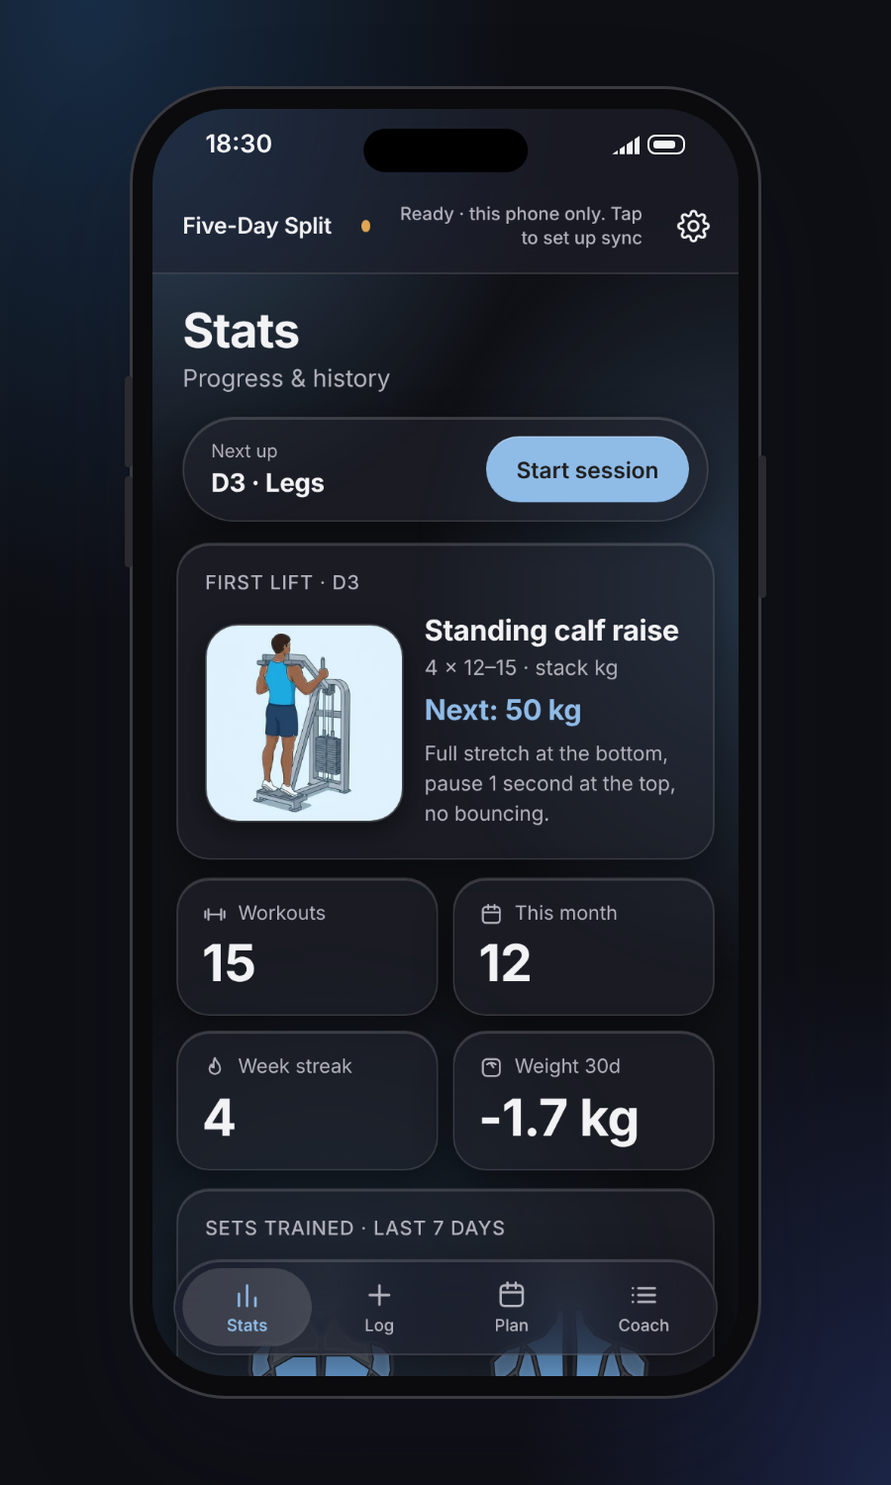
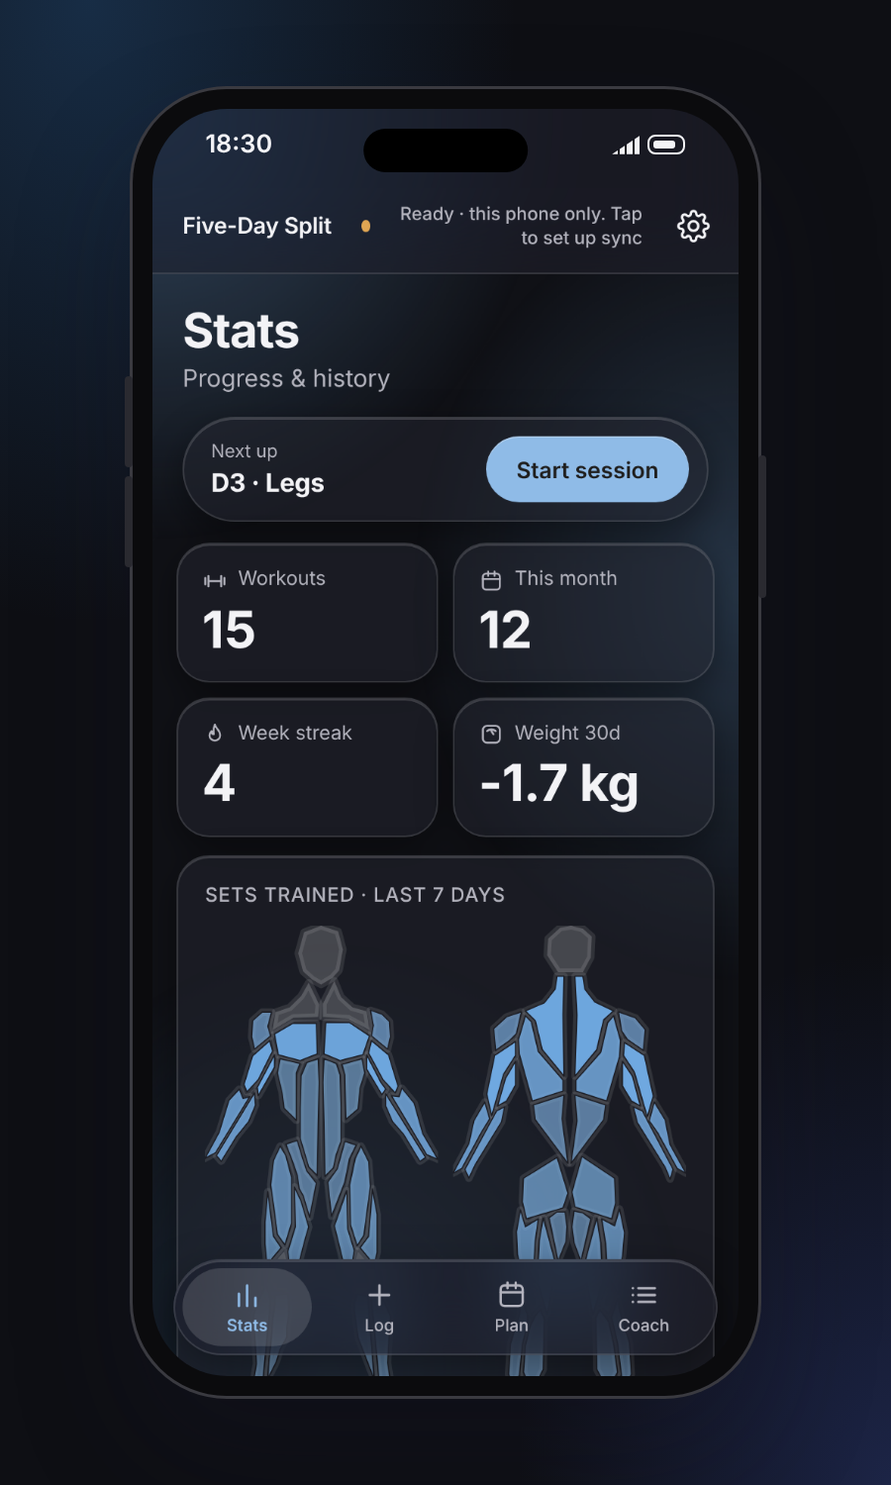
Remove First lift card, settings close button, keep fields clear of header, fix date field overlap (#4)
Claude-Session: https://claude.ai/code/session_01G4zxRqEfTkFnjpAiDAwh36

diff --git a/split.js b/split.js
@@ -80,7 +80,7 @@ let sampleCache=null;
 const LS_CO='split-coach-v1',LS_CS='split-coach-shas-v1';
 const esc=s=>String(s==null?'':s).replace(/[&<>"']/g,c=>({'&':'&amp;','<':'&lt;','>':'&gt;','"':'&quot;',"'":'&#39;'}[c]));
 const LS_S='split-sessions-v2',LS_SA='split-sessions-at-v1',LS_Q='split-queue-v1',LS_C='split-sync-cfg-v1',LS_H='split-shas-v1',LS_L='split-lastsync-v1';
-const BUILD='2026-11-18.124631';
+const BUILD='2026-11-18.130212';
 const DATE_RE=/^\d{4}-\d{2}-\d{2}$/,FILE_RE=/^\d{4}-\d{2}-\d{2}\.json$/,REPO_RE=/^[\w.-]+\/[\w.-]+$/;
 const dayOf=id=>DAYS.find(x=>x.id===id)||null;
 const lsGet=(k,d)=>{try{const v=localStorage.getItem(k);return v?JSON.parse(v):d;}catch(e){return d;}};
@@ -559,12 +559,6 @@ function progressHtml(){
     const d=r.p.map((q,i)=>(i?'L':'M')+(i/(r.p.length-1)*60).toFixed(1)+' '+(16-(q.v-lo)/sp*14).toFixed(1)).join('');
     return`<div class="prow"><b>${r.n}</b><svg viewBox="0 0 60 18" aria-hidden="true"><path d="${d}"/></svg><em class="${r.pc>=0?'up':'dn'}">${r.pc>=0?'+':''}${r.pc.toFixed(0)}%</em></div>`;}).join('')}</div><p class="sub">Estimated 1-rep max, first vs latest session.</p>`;
 }
-/* the first lift of the next session, with its start/end animation */
-function nextLiftHtml(){
-  const day=suggestedDay(),ex=EX.find(e=>e.d===day);if(!ex)return'';
-  const sg=suggest(ex,todayStr(),null);
-  return`<section class="card nextlift"><h3 class="sec">First lift · ${esc(day)}</h3><div class="nlb">${figHtml(ex)}<div class="nli"><b>${esc(ex.n)}</b><p class="sub">${ex.s} × ${ex.r[0]}–${ex.r[1]} · ${esc(ex.u)}</p><p class="tgt"><b>Next: ${fmtKg(sg.kg)} kg</b></p><p class="cue">${esc(ex.cue)}</p></div></div></section>`;
-}
 function renderStats(){
   const root=$('#tab-stats'),sess=activeSessions(),now=Date.now(),win=7;
   const H=heat(sess,now,win),list=realList(),mo=todayStr().slice(0,7);
@@ -573,7 +567,7 @@ function renderStats(){
     const a=H[m].sets<=0?0:clamp(.18+.82*H[m].sets/Math.max(BAND[m][1],6),.18,1);
     return a===0?'var(--idle)':`color-mix(in srgb,var(--clay) ${Math.round(a*100)}%,var(--idle))`;
   };
-  let h=`<section class="hd"><h2>Stats</h2><p class="sub">Progress &amp; history</p><div class="next"><div><span>Next up</span><b>${(()=>{const d=DAYS.find(x=>x.id===suggestedDay());return d.id+' · '+d.name;})()}</b></div><button class="cta" data-tab="log">Start session</button></div></section>${nextLiftHtml()}
+  let h=`<section class="hd"><h2>Stats</h2><p class="sub">Progress &amp; history</p><div class="next"><div><span>Next up</span><b>${(()=>{const d=DAYS.find(x=>x.id===suggestedDay());return d.id+' · '+d.name;})()}</b></div><button class="cta" data-tab="log">Start session</button></div></section>
   <div class="tiles"><div class="tile"><span>${icon('dumb')}Workouts</span><b>${list.length}</b></div><div class="tile"><span>${icon('cal')}This month</span><b>${list.filter(s=>s.date.slice(0,7)===mo).length}</b></div><div class="tile"><span>${icon('flame')}Week streak</span><b>${weekStreak()}</b></div><div class="tile"><span>${icon('scale')}Weight 30d</span><b>${wd===null?'–':(wd>0?'+':'')+wd.toFixed(1)+' kg'}</b></div></div>
   <section class="card"><h3 class="sec">Sets trained · last 7 days</h3>
   ${state.real?'':'<p class="banner">Sample week shown on the body map. Save your first session in the Log tab and this switches to your own data.</p>'}
@@ -699,6 +693,13 @@ window.addEventListener('pagehide',()=>{if(state.dirty)autoSave();});
 window.addEventListener('focus',rollover);
 window.addEventListener('online',()=>schedSync(500));
 document.addEventListener('visibilitychange',()=>{if(document.hidden){if(Object.keys(queueGet()).length)schedSync(0);}else schedSync(500);});
+/* Keep a focused field clear of the pinned header and the floating tab bar. iOS only scrolls a field into
+   the viewport when the keyboard opens, which can leave it underneath the header. */
+function keepClear(t){
+  const h=$('header'),n=$('.nav'),r=t.getBoundingClientRect(),top=h?h.getBoundingClientRect().bottom+8:0,bot=n?n.getBoundingClientRect().top-8:innerHeight;
+  if(r.top<top)window.scrollBy(0,r.top-top);else if(r.bottom>bot&&r.height<bot-top)window.scrollBy(0,r.bottom-bot);
+}
+document.addEventListener('focusin',e=>{const t=e.target;if(!t.matches||!t.matches('input,textarea,select')||t.closest('dialog'))return;[60,350].forEach(ms=>setTimeout(()=>{if(document.activeElement===t)keepClear(t);},ms));});
 /* ---------- themes ---------- */
 const LS_TH='split-theme-v1';
 const themeGet=()=>Object.assign({mode:'auto',accent:'clay',contrast:'normal'},lsGet(LS_TH,{}));
@@ -722,6 +723,7 @@ function openSettings(){const c=cfg();$('#set-repo').value=c?c.repo:'';$('#set-t
 $('#sync').addEventListener('click',openSettings);
 $('#gear').addEventListener('click',openSettings);
 $('#set-close').addEventListener('click',()=>dlg.close());
+$('#set-x').addEventListener('click',()=>dlg.close());
 $('#set-target').addEventListener('change',e=>{const v=Number(String(e.target.value).replace(',','.'));if(v>0)lsSet(LS_T,v);else localStorage.removeItem(LS_T);try{renderStats();}catch(x){}});
 $('#set-save').addEventListener('click',async()=>{
   const repo=$('#set-repo').value.trim().replace(/^https?:\/\/github\.com\//,'').replace(/\.git$/,''),old=cfg(),token=$('#set-token').value.trim()||(old&&old.token)||'',m=$('#set-msg');

diff --git a/tests/app.test.js b/tests/app.test.js
@@ -276,36 +276,6 @@ test('glass: falls back when backdrop-filter is unsupported',async()=>{
   assert.ok(a&&Number(a[1])>=.92,'--glass-bar alpha >= .92');
 });
 
-test('stats shows an animated preview of the next lift',async()=>{
-  const {ctx,page,errors}=await openApp({hash:'stats'});
-  assert.equal(await page.$$eval('.nextlift .fx img',n=>n.length),2);
-  assert.match(await page.textContent('.nextlift'),/Lat pulldown/);
-  assert.match(await page.textContent('.nextlift'),/Next: 55 kg/);
-  assert.equal(await page.$eval('.nextlift .fx img+img',i=>getComputedStyle(i).animationName),'fx');
-  assert.deepEqual(errors,[]);
-  await ctx.close();
-});
-
-test('the preview obeys reduced motion and tap',async()=>{
-  const {ctx,page}=await openApp({hash:'stats',ctxOpts:{reducedMotion:'reduce'}});
-  assert.equal(await page.$eval('.nextlift .fx img+img',i=>getComputedStyle(i).animationName),'none');
-  await page.click('.nextlift .fx');
-  assert.ok(await page.$eval('.nextlift .fx',f=>f.classList.contains('end')));
-  await ctx.close();
-});
-
-test('the preview survives a lift without images',async()=>{
-  const before=ctx=>ctx.route('**/split.js*',async route=>{
-    const r=await route.fetch();const body=(await r.text()).replace('"d1-lat":"lat-pulldown",','');
-    await route.fulfill({response:r,body});
-  });
-  const {ctx,page,errors}=await openApp({hash:'stats',before});
-  assert.match(await page.textContent('.nextlift'),/Lat pulldown/);
-  assert.equal(await page.$$eval('.nextlift img',n=>n.length),0);
-  assert.deepEqual(errors,[]);
-  await ctx.close();
-});
-
 test('readme renders exist and are framed phones',{timeout:180000},async()=>{
   const {spawnSync}=require('node:child_process'),os=require('node:os');
   const out=fs.mkdtempSync(path.join(os.tmpdir(),'shots-'));
@@ -331,12 +301,44 @@ test('glass: the no-blur fallback makes bars near-opaque in every mode',async()=
   }
 });
 
-test('the preview keeps full width when the lift has no image',async()=>{
-  const before=ctx=>ctx.route('**/split.js*',async route=>{
-    const r=await route.fetch();await route.fulfill({response:r,body:(await r.text()).replace('"d1-lat":"lat-pulldown",','')});
-  });
-  const {ctx,page}=await openApp({hash:'stats',before});
-  const w=await page.$eval('.nextlift',c=>({card:c.getBoundingClientRect().width,info:c.querySelector('.nli').getBoundingClientRect().width}));
-  assert.ok(w.info>w.card*.8,`info column ${w.info}px of ${w.card}px card`);
+test('stats no longer shows a first-lift card',async()=>{
+  const {ctx,page}=await openApp({hash:'stats'});
+  assert.equal(await page.$$eval('.nextlift',n=>n.length),0);
+  assert.doesNotMatch(await page.textContent('#tab-stats'),/First lift/i);
+  await ctx.close();
+});
+
+test('settings has a close button in the top right corner',async()=>{
+  const {ctx,page}=await openApp({hash:'stats'});
+  await page.click('#gear');
+  const r=await page.evaluate(()=>{const d=document.querySelector('#settings').getBoundingClientRect(),x=document.querySelector('#set-x');const b=x.getBoundingClientRect();return {label:x.getAttribute('aria-label'),right:d.right-b.right,top:b.top-d.top,w:b.width,h:b.height};});
+  assert.equal(r.label,'Close settings');
+  assert.ok(r.right<40&&r.top<40,'top right: '+JSON.stringify(r));
+  assert.ok(r.w>=44&&r.h>=44,'44px touch target');
+  await page.click('#set-x');
+  assert.equal(await page.$eval('#settings',d=>d.open),false);
+  await ctx.close();
+});
+
+test('a focused input is never left under the pinned header',async()=>{
+  const {ctx,page}=await openApp({hash:'log',ctxOpts:{viewport:{width:390,height:700}}});
+  const sel='input[data-ex][data-i="0"][data-f="reps"]';
+  // put the input partly underneath the header, as when the page has scrolled
+  await page.evaluate(sel=>{const h=document.querySelector('header').getBoundingClientRect().bottom,i=document.querySelector(sel).getBoundingClientRect().top;window.scrollBy(0,i-h+20);},sel);
+  await page.focus(sel);await page.waitForTimeout(400);
+  const r=await page.evaluate(sel=>({header:document.querySelector('header').getBoundingClientRect().bottom,input:document.querySelector(sel).getBoundingClientRect().top}),sel);
+  assert.ok(r.input>=r.header,`input top ${r.input} vs header bottom ${r.header}`);
+  await ctx.close();
+});
+
+test('date and body weight fields never overlap on a narrow phone',async()=>{
+  const {ctx,page}=await openApp({hash:'log',ctxOpts:{viewport:{width:320,height:640}}});
+  const r=await page.evaluate(()=>{const d=document.querySelector('#f-date'),b=document.querySelector('#f-bw'),cs=getComputedStyle(d);
+    const R=e=>e.getBoundingClientRect(),dr=R(d),br=R(b),dl=R(d.closest('.fld')),bl=R(b.closest('.fld'));
+    const overlap=!(dr.right<=br.left||br.right<=dr.left||dr.bottom<=br.top||br.bottom<=dr.top);
+    return {overlap,dateInside:dr.right<=dl.right+0.5,bwInside:br.right<=bl.right+0.5,appearance:cs.appearance||cs.webkitAppearance,minW:cs.minWidth,fldMinW:getComputedStyle(d.closest('.fld')).minWidth};});
+  assert.equal(r.overlap,false);assert.ok(r.dateInside&&r.bwInside,JSON.stringify(r));
+  // guards for iOS Safari, whose native date control will not shrink to its column otherwise
+  assert.equal(r.appearance,'none');assert.equal(r.minW,'0px');assert.equal(r.fldMinW,'0px');
   await ctx.close();
 });

diff --git a/index.html b/index.html
@@ -10,7 +10,7 @@
 <meta name="apple-mobile-web-app-capable" content="yes"><meta name="mobile-web-app-capable" content="yes">
 <meta name="apple-mobile-web-app-title" content="Split"><meta name="apple-mobile-web-app-status-bar-style" content="default">
 <meta name="theme-color" id="tc" content="#faf9f5">
-<script src="theme.js?v=2026-11-18.124631"></script>
+<script src="theme.js?v=2026-11-18.130212"></script>
 <style>
 /* Layout: one narrow column, sticky header, bottom tab bar. Palette: graphite with indigo accent; heat uses its own red-to-green scale. */
 /* Look: warm paper, clay accent, serif display + system sans, quiet hairline cards (follows the iPhone light/dark setting) */
@@ -381,10 +381,15 @@ dialog#settings::backdrop{background:rgba(0,0,0,.30)}
 /* exercise animation frames: glass edge around the start/end cross-fade */
 .fx{border-radius:var(--radius-card);border:1px solid var(--glass-edge);box-shadow:inset 0 1px 0 var(--glass-hi),0 6px 18px var(--glass-shade);background:var(--inset)}
 .alt img{border-radius:14px;border:1px solid var(--glass-edge)}
-.nlb{display:grid;grid-template-columns:132px 1fr;gap:14px;align-items:center}
-.nlb .fx{max-width:132px;margin:0}
-.nlb:not(:has(.fx)){grid-template-columns:1fr}
-.nli b{font:700 19px var(--sans);letter-spacing:-.01em}.nli .sub{margin:2px 0 6px;font-size:14px}.nli .tgt{margin:0 0 6px;font-size:15px}.nli .cue{margin:0;font-size:13.5px;color:var(--muted)}
+/* settings: close button pinned to the top right while the sheet scrolls */
+#set-x{position:sticky;top:0;float:right;margin:-8px -8px 0 8px;width:44px;height:44px;border-radius:50%;display:inline-flex;align-items:center;justify-content:center;border:1px solid var(--glass-edge);background:var(--inset);color:var(--ink);cursor:pointer;z-index:1}
+/* fields: room under the pinned header and above the tab bar when scrolled to */
+html{scroll-padding-top:calc(76px + env(safe-area-inset-top));scroll-padding-bottom:calc(100px + env(safe-area-inset-bottom))}
+/* date and body weight side by side: iOS draws date inputs at a fixed minimum width unless these are set */
+.fld{min-width:0}
+.fld input{min-width:0;max-width:100%}
+input[type=date]{-webkit-appearance:none;appearance:none;display:block;min-width:0}
+input[type=date]::-webkit-date-and-time-value{text-align:left}
 /* no backdrop-filter support: bars go near-opaque so text under them stays readable */
 @supports not ((backdrop-filter:blur(1px)) or (-webkit-backdrop-filter:blur(1px))){
   html,html[data-scheme="light"]{--glass-bar:rgba(246,247,250,.96)}
@@ -399,7 +404,7 @@ html[data-contrast="high"] body::before{display:none}
 </head>
 <body>
 <header><div class="in"><h1>Five-Day Split</h1><button id="sync" type="button" data-s="warn">Starting…</button><button id="gear" type="button" aria-label="Settings"><svg viewBox="0 0 24 24" width="22" height="22" fill="none" stroke="currentColor" stroke-width="1.8" stroke-linecap="round" stroke-linejoin="round" aria-hidden="true"><path d="M12 15.5a3.5 3.5 0 1 0 0-7 3.5 3.5 0 0 0 0 7Z"/><path d="M19.4 15a1.7 1.7 0 0 0 .34 1.87l.06.06a2 2 0 1 1-2.83 2.83l-.06-.06a1.7 1.7 0 0 0-1.87-.34 1.7 1.7 0 0 0-1.04 1.56V21a2 2 0 1 1-4 0v-.09A1.7 1.7 0 0 0 9 19.4a1.7 1.7 0 0 0-1.87.34l-.06.06a2 2 0 1 1-2.83-2.83l.06-.06A1.7 1.7 0 0 0 4.6 15a1.7 1.7 0 0 0-1.56-1.04H3a2 2 0 1 1 0-4h.09A1.7 1.7 0 0 0 4.6 9a1.7 1.7 0 0 0-.34-1.87l-.06-.06a2 2 0 1 1 2.83-2.83l.06.06A1.7 1.7 0 0 0 9 4.6a1.7 1.7 0 0 0 1.04-1.56V3a2 2 0 1 1 4 0v.09A1.7 1.7 0 0 0 15 4.6a1.7 1.7 0 0 0 1.87-.34l.06-.06a2 2 0 1 1 2.83 2.83l-.06.06A1.7 1.7 0 0 0 19.4 9a1.7 1.7 0 0 0 1.56 1.04H21a2 2 0 1 1 0 4h-.09A1.7 1.7 0 0 0 19.4 15Z"/></svg></button></div></header>
-<dialog id="settings"><h2>Settings</h2><p id="set-status"></p>
+<dialog id="settings"><button id="set-x" type="button" aria-label="Close settings"><svg viewBox="0 0 24 24" width="20" height="20" aria-hidden="true" fill="none" stroke="currentColor" stroke-width="2" stroke-linecap="round"><path d="M6 6l12 12M18 6L6 18"/></svg></button><h2>Settings</h2><p id="set-status"></p>
 <h3>Cloud sync</h3><p class="sub" style="margin:0;font-size:13px;color:var(--muted)">Your workouts always save on this phone first. Sync copies them to your private GitHub repo so Claude can read them.</p>
 <label for="set-repo">Private repo (owner/name)</label><input id="set-repo" type="text" placeholder="your-name/your-private-repo" autocapitalize="off" autocorrect="off" spellcheck="false">
 <label for="set-token">Access token</label><input id="set-token" type="password" autocomplete="off" autocapitalize="off" spellcheck="false">
@@ -430,6 +435,6 @@ html[data-contrast="high"] body::before{display:none}
 <button data-tab="coach"><svg viewBox="0 0 24 24" aria-hidden="true"><path d="M8 7h12M8 12h12M8 17h12M4 7h.01M4 12h.01M4 17h.01"/></svg>Coach</button>
 </div></nav>
 <div id="toast" role="status" aria-live="polite"></div>
-<script src="split.js?v=2026-11-18.124631"></script>
+<script src="split.js?v=2026-11-18.130212"></script>
 </body>
 </html>

diff --git a/src/app.js b/src/app.js
@@ -500,12 +500,6 @@ function progressHtml(){
     const d=r.p.map((q,i)=>(i?'L':'M')+(i/(r.p.length-1)*60).toFixed(1)+' '+(16-(q.v-lo)/sp*14).toFixed(1)).join('');
     return`<div class="prow"><b>${r.n}</b><svg viewBox="0 0 60 18" aria-hidden="true"><path d="${d}"/></svg><em class="${r.pc>=0?'up':'dn'}">${r.pc>=0?'+':''}${r.pc.toFixed(0)}%</em></div>`;}).join('')}</div><p class="sub">Estimated 1-rep max, first vs latest session.</p>`;
 }
-/* the first lift of the next session, with its start/end animation */
-function nextLiftHtml(){
-  const day=suggestedDay(),ex=EX.find(e=>e.d===day);if(!ex)return'';
-  const sg=suggest(ex,todayStr(),null);
-  return`<section class="card nextlift"><h3 class="sec">First lift · ${esc(day)}</h3><div class="nlb">${figHtml(ex)}<div class="nli"><b>${esc(ex.n)}</b><p class="sub">${ex.s} × ${ex.r[0]}–${ex.r[1]} · ${esc(ex.u)}</p><p class="tgt"><b>Next: ${fmtKg(sg.kg)} kg</b></p><p class="cue">${esc(ex.cue)}</p></div></div></section>`;
-}
 function renderStats(){
   const root=$('#tab-stats'),sess=activeSessions(),now=Date.now(),win=7;
   const H=heat(sess,now,win),list=realList(),mo=todayStr().slice(0,7);
@@ -514,7 +508,7 @@ function renderStats(){
     const a=H[m].sets<=0?0:clamp(.18+.82*H[m].sets/Math.max(BAND[m][1],6),.18,1);
     return a===0?'var(--idle)':`color-mix(in srgb,var(--clay) ${Math.round(a*100)}%,var(--idle))`;
   };
-  let h=`<section class="hd"><h2>Stats</h2><p class="sub">Progress &amp; history</p><div class="next"><div><span>Next up</span><b>${(()=>{const d=DAYS.find(x=>x.id===suggestedDay());return d.id+' · '+d.name;})()}</b></div><button class="cta" data-tab="log">Start session</button></div></section>${nextLiftHtml()}
+  let h=`<section class="hd"><h2>Stats</h2><p class="sub">Progress &amp; history</p><div class="next"><div><span>Next up</span><b>${(()=>{const d=DAYS.find(x=>x.id===suggestedDay());return d.id+' · '+d.name;})()}</b></div><button class="cta" data-tab="log">Start session</button></div></section>
   <div class="tiles"><div class="tile"><span>${icon('dumb')}Workouts</span><b>${list.length}</b></div><div class="tile"><span>${icon('cal')}This month</span><b>${list.filter(s=>s.date.slice(0,7)===mo).length}</b></div><div class="tile"><span>${icon('flame')}Week streak</span><b>${weekStreak()}</b></div><div class="tile"><span>${icon('scale')}Weight 30d</span><b>${wd===null?'–':(wd>0?'+':'')+wd.toFixed(1)+' kg'}</b></div></div>
   <section class="card"><h3 class="sec">Sets trained · last 7 days</h3>
   ${state.real?'':'<p class="banner">Sample week shown on the body map. Save your first session in the Log tab and this switches to your own data.</p>'}
@@ -640,6 +634,13 @@ window.addEventListener('pagehide',()=>{if(state.dirty)autoSave();});
 window.addEventListener('focus',rollover);
 window.addEventListener('online',()=>schedSync(500));
 document.addEventListener('visibilitychange',()=>{if(document.hidden){if(Object.keys(queueGet()).length)schedSync(0);}else schedSync(500);});
+/* Keep a focused field clear of the pinned header and the floating tab bar. iOS only scrolls a field into
+   the viewport when the keyboard opens, which can leave it underneath the header. */
+function keepClear(t){
+  const h=$('header'),n=$('.nav'),r=t.getBoundingClientRect(),top=h?h.getBoundingClientRect().bottom+8:0,bot=n?n.getBoundingClientRect().top-8:innerHeight;
+  if(r.top<top)window.scrollBy(0,r.top-top);else if(r.bottom>bot&&r.height<bot-top)window.scrollBy(0,r.bottom-bot);
+}
+document.addEventListener('focusin',e=>{const t=e.target;if(!t.matches||!t.matches('input,textarea,select')||t.closest('dialog'))return;[60,350].forEach(ms=>setTimeout(()=>{if(document.activeElement===t)keepClear(t);},ms));});
 /* ---------- themes ---------- */
 const LS_TH='split-theme-v1';
 const themeGet=()=>Object.assign({mode:'auto',accent:'clay',contrast:'normal'},lsGet(LS_TH,{}));
@@ -663,6 +664,7 @@ function openSettings(){const c=cfg();$('#set-repo').value=c?c.repo:'';$('#set-t
 $('#sync').addEventListener('click',openSettings);
 $('#gear').addEventListener('click',openSettings);
 $('#set-close').addEventListener('click',()=>dlg.close());
+$('#set-x').addEventListener('click',()=>dlg.close());
 $('#set-target').addEventListener('change',e=>{const v=Number(String(e.target.value).replace(',','.'));if(v>0)lsSet(LS_T,v);else localStorage.removeItem(LS_T);try{renderStats();}catch(x){}});
 $('#set-save').addEventListener('click',async()=>{
   const repo=$('#set-repo').value.trim().replace(/^https?:\/\/github\.com\//,'').replace(/\.git$/,''),old=cfg(),token=$('#set-token').value.trim()||(old&&old.token)||'',m=$('#set-msg');

diff --git a/src/template.html b/src/template.html
@@ -381,10 +381,15 @@ dialog#settings::backdrop{background:rgba(0,0,0,.30)}
 /* exercise animation frames: glass edge around the start/end cross-fade */
 .fx{border-radius:var(--radius-card);border:1px solid var(--glass-edge);box-shadow:inset 0 1px 0 var(--glass-hi),0 6px 18px var(--glass-shade);background:var(--inset)}
 .alt img{border-radius:14px;border:1px solid var(--glass-edge)}
-.nlb{display:grid;grid-template-columns:132px 1fr;gap:14px;align-items:center}
-.nlb .fx{max-width:132px;margin:0}
-.nlb:not(:has(.fx)){grid-template-columns:1fr}
-.nli b{font:700 19px var(--sans);letter-spacing:-.01em}.nli .sub{margin:2px 0 6px;font-size:14px}.nli .tgt{margin:0 0 6px;font-size:15px}.nli .cue{margin:0;font-size:13.5px;color:var(--muted)}
+/* settings: close button pinned to the top right while the sheet scrolls */
+#set-x{position:sticky;top:0;float:right;margin:-8px -8px 0 8px;width:44px;height:44px;border-radius:50%;display:inline-flex;align-items:center;justify-content:center;border:1px solid var(--glass-edge);background:var(--inset);color:var(--ink);cursor:pointer;z-index:1}
+/* fields: room under the pinned header and above the tab bar when scrolled to */
+html{scroll-padding-top:calc(76px + env(safe-area-inset-top));scroll-padding-bottom:calc(100px + env(safe-area-inset-bottom))}
+/* date and body weight side by side: iOS draws date inputs at a fixed minimum width unless these are set */
+.fld{min-width:0}
+.fld input{min-width:0;max-width:100%}
+input[type=date]{-webkit-appearance:none;appearance:none;display:block;min-width:0}
+input[type=date]::-webkit-date-and-time-value{text-align:left}
 /* no backdrop-filter support: bars go near-opaque so text under them stays readable */
 @supports not ((backdrop-filter:blur(1px)) or (-webkit-backdrop-filter:blur(1px))){
   html,html[data-scheme="light"]{--glass-bar:rgba(246,247,250,.96)}
@@ -399,7 +404,7 @@ html[data-contrast="high"] body::before{display:none}
 </head>
 <body>
 <header><div class="in"><h1>Five-Day Split</h1><button id="sync" type="button" data-s="warn">Starting…</button><button id="gear" type="button" aria-label="Settings"><svg viewBox="0 0 24 24" width="22" height="22" fill="none" stroke="currentColor" stroke-width="1.8" stroke-linecap="round" stroke-linejoin="round" aria-hidden="true"><path d="M12 15.5a3.5 3.5 0 1 0 0-7 3.5 3.5 0 0 0 0 7Z"/><path d="M19.4 15a1.7 1.7 0 0 0 .34 1.87l.06.06a2 2 0 1 1-2.83 2.83l-.06-.06a1.7 1.7 0 0 0-1.87-.34 1.7 1.7 0 0 0-1.04 1.56V21a2 2 0 1 1-4 0v-.09A1.7 1.7 0 0 0 9 19.4a1.7 1.7 0 0 0-1.87.34l-.06.06a2 2 0 1 1-2.83-2.83l.06-.06A1.7 1.7 0 0 0 4.6 15a1.7 1.7 0 0 0-1.56-1.04H3a2 2 0 1 1 0-4h.09A1.7 1.7 0 0 0 4.6 9a1.7 1.7 0 0 0-.34-1.87l-.06-.06a2 2 0 1 1 2.83-2.83l.06.06A1.7 1.7 0 0 0 9 4.6a1.7 1.7 0 0 0 1.04-1.56V3a2 2 0 1 1 4 0v.09A1.7 1.7 0 0 0 15 4.6a1.7 1.7 0 0 0 1.87-.34l.06-.06a2 2 0 1 1 2.83 2.83l-.06.06A1.7 1.7 0 0 0 19.4 9a1.7 1.7 0 0 0 1.56 1.04H21a2 2 0 1 1 0 4h-.09A1.7 1.7 0 0 0 19.4 15Z"/></svg></button></div></header>
-<dialog id="settings"><h2>Settings</h2><p id="set-status"></p>
+<dialog id="settings"><button id="set-x" type="button" aria-label="Close settings"><svg viewBox="0 0 24 24" width="20" height="20" aria-hidden="true" fill="none" stroke="currentColor" stroke-width="2" stroke-linecap="round"><path d="M6 6l12 12M18 6L6 18"/></svg></button><h2>Settings</h2><p id="set-status"></p>
 <h3>Cloud sync</h3><p class="sub" style="margin:0;font-size:13px;color:var(--muted)">Your workouts always save on this phone first. Sync copies them to your private GitHub repo so Claude can read them.</p>
 <label for="set-repo">Private repo (owner/name)</label><input id="set-repo" type="text" placeholder="your-name/your-private-repo" autocapitalize="off" autocorrect="off" spellcheck="false">
 <label for="set-token">Access token</label><input id="set-token" type="password" autocomplete="off" autocapitalize="off" spellcheck="false">

diff --git a/sw.js b/sw.js
@@ -1,4 +1,4 @@
-const V='split-2026-11-18.124631';
+const V='split-2026-11-18.130212';
 const SHELL=['./','index.html','split.js','theme.js','manifest.webmanifest','icon-192.png','icon-512.png','apple-touch-icon.png'];
 self.addEventListener('install',e=>{e.waitUntil(caches.open(V).then(c=>c.addAll(SHELL)).then(()=>self.skipWaiting()));});
 self.addEventListener('activate',e=>{e.waitUntil(caches.keys().then(ks=>Promise.all(ks.filter(k=>k!==V).map(k=>caches.delete(k)))).then(()=>self.clients.claim()));});

diff --git a/README.md b/README.md
@@ -40,10 +40,10 @@ Each exercise shows a short animation of its start and end position, the form cu
 
 Suggested weights use double progression. When every set reaches the top of the rep range, the next session suggests the next step up. Until then, it tells you to stay and add a rep.
 
-The Stats tab opens on your next session, with its first lift and target weight ready.
+The Stats tab opens on your next session, one tap from starting it.
 
 </td>
-<td width="44%"><img src="docs/screenshots/stats.png" alt="The Stats tab: next session, first lift with its animation, and workout totals"></td>
+<td width="44%"><img src="docs/screenshots/stats.png" alt="The Stats tab: next session, workout totals and the muscles trained this week"></td>
 </tr>
 <tr>
 <td width="44%"><img src="docs/screenshots/coach.png" alt="The Coach tab: weekly hard sets per muscle against target ranges"></td>
